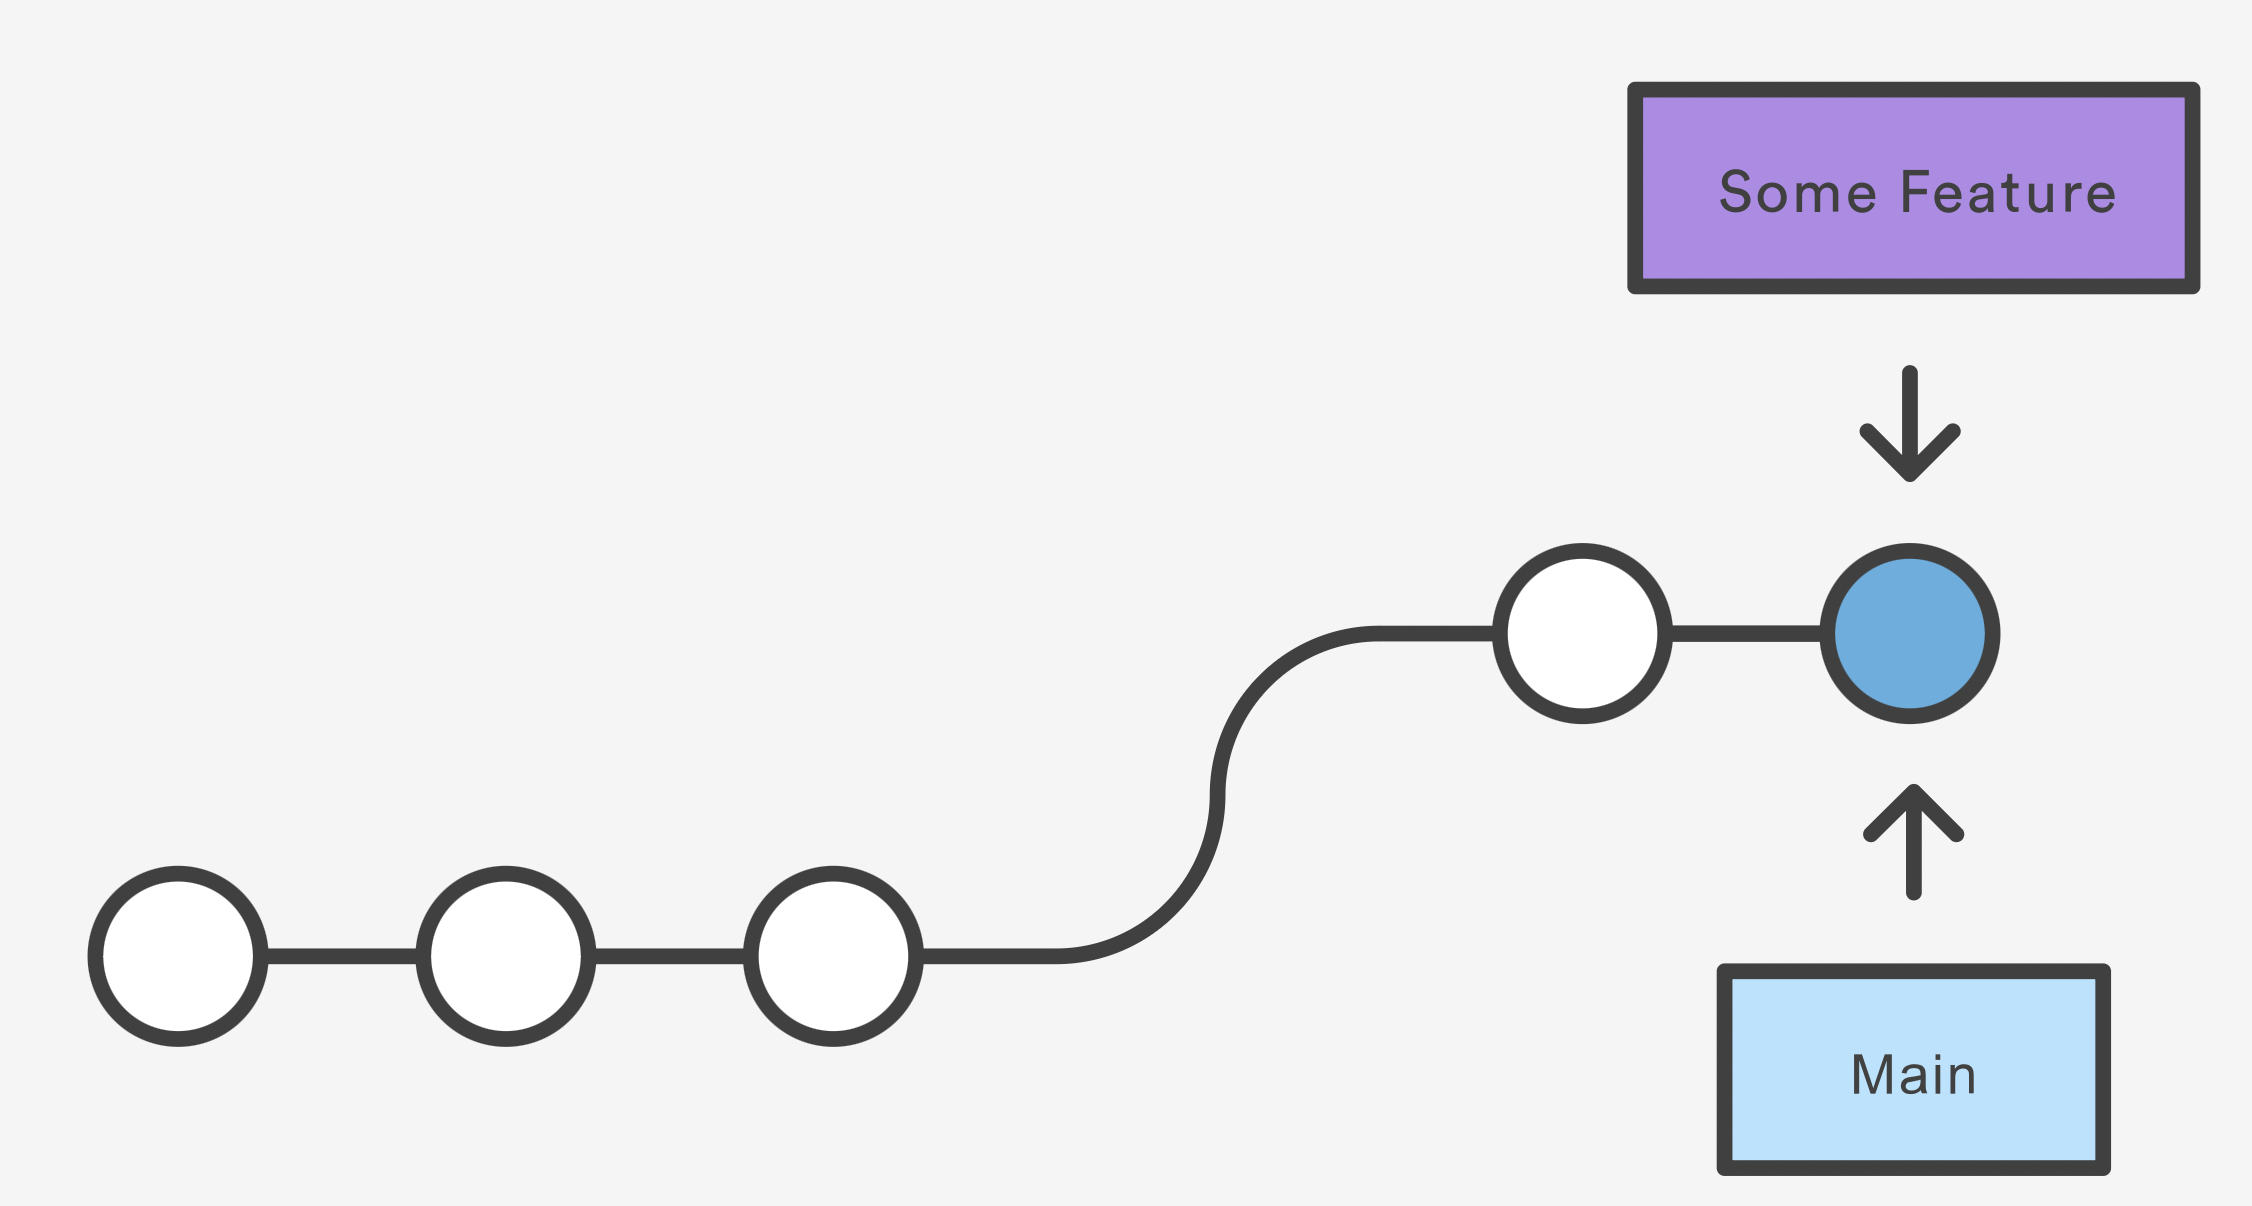
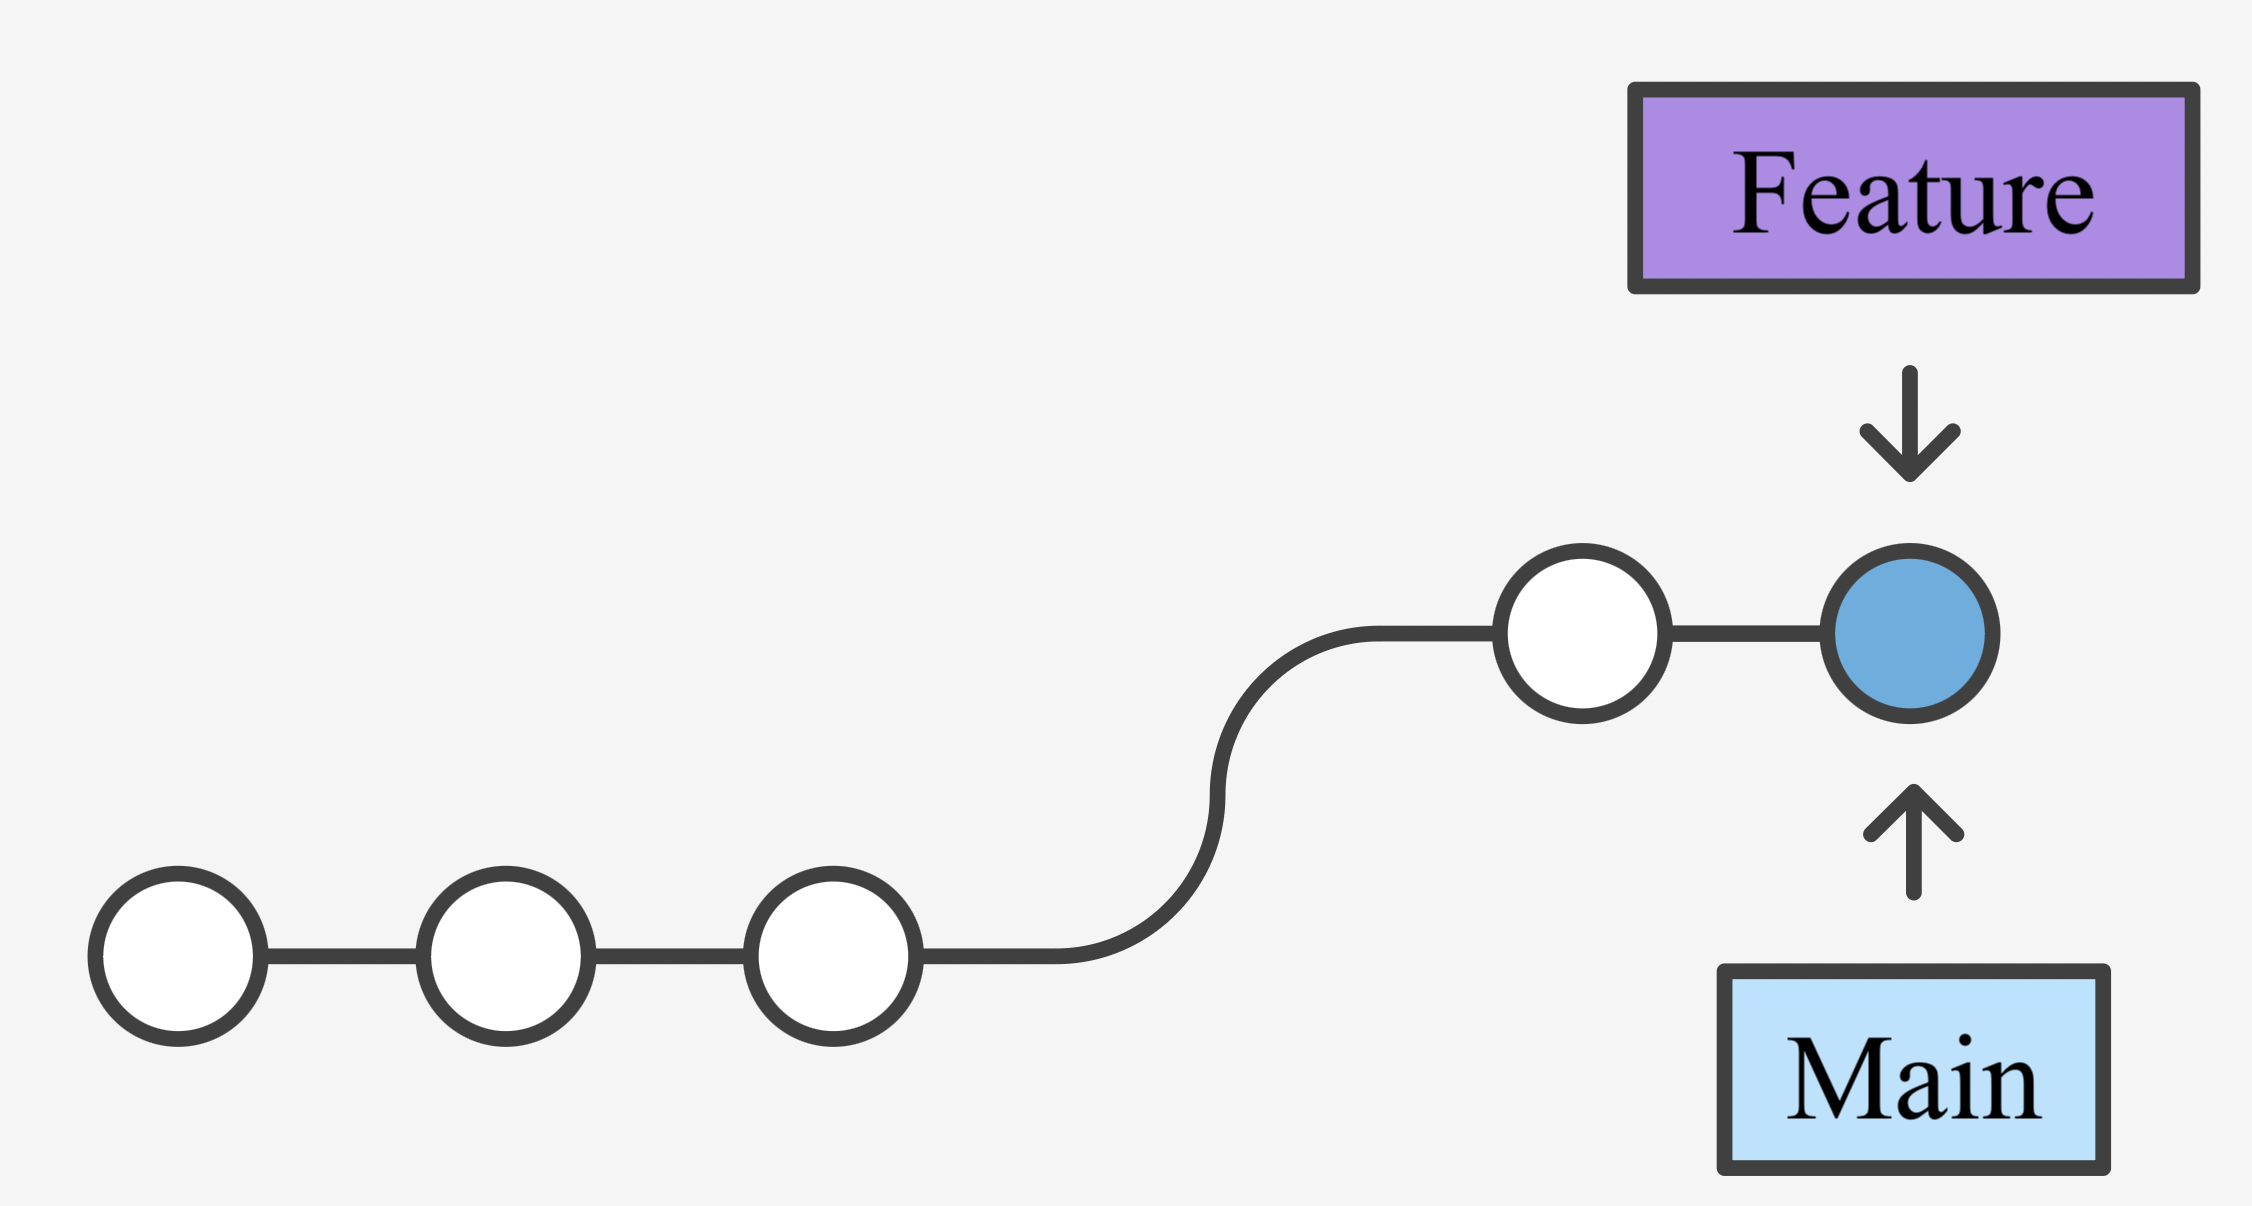
docs: made text on figure more readable

Changed region(s): [[0.746, 0.1227, 0.9325, 0.2148], [0.7771, 0.859, 0.9014, 0.9511]]

diff --git a/sections/branches.tex b/sections/branches.tex
@@ -32,23 +32,23 @@
 			\end{center}
 			\vspace{-1mm}
 			
-			\underline{Merging}: Insert the changes from one branch into another as a new commit. Main types of merges are:
+			\underline{Merging}: \textcolor{outlinecolor}{Insert the changes} from one branch into another \textcolor{outlinecolor}{as a new commit}. Main types of merges are:
 			\begin{itemize}
-				\item A \textcolor{outlinecolor}{fast forward merge} happens when one branch is ahead of another. i.e., \\
+				\item A \textcolor{outlinecolor}{fast forward merge} happens when one branch is ahead of another. i.e.,
 			\end{itemize}
 			\hfill
 			\begin{minipage}{0.45\textwidth} 
 				\centering
 				\includegraphics[width=\textwidth]{images/fast_forward_merge_before.png}
 				\captionsetup{justification=centering}
-				\captionof{figure}{Before a fast-forward merge. \href{https://www.atlassian.com/git/tutorials/using-branches/git-merge}{\faLink{} Source}}
+				\captionof{figure}{Before fast-forward merge. \href{https://www.atlassian.com/git/tutorials/using-branches/git-merge}{\faLink{} Source}}
 			\end{minipage}%
 			\hfill
 			\begin{minipage}{0.4\textwidth}
 				\centering
 				\includegraphics[width=\textwidth]{images/fast_forward_merge_after.png} 
 				\captionsetup{justification=centering}
-				\captionof{figure}{After a fast-forward merge. \href{https://www.atlassian.com/git/tutorials/using-branches/git-merge}{ \faLink{}  Source}}
+				\captionof{figure}{After fast-forward merge. \href{https://www.atlassian.com/git/tutorials/using-branches/git-merge}{ \faLink{}  Source}}
 			\end{minipage}
 			
 			
